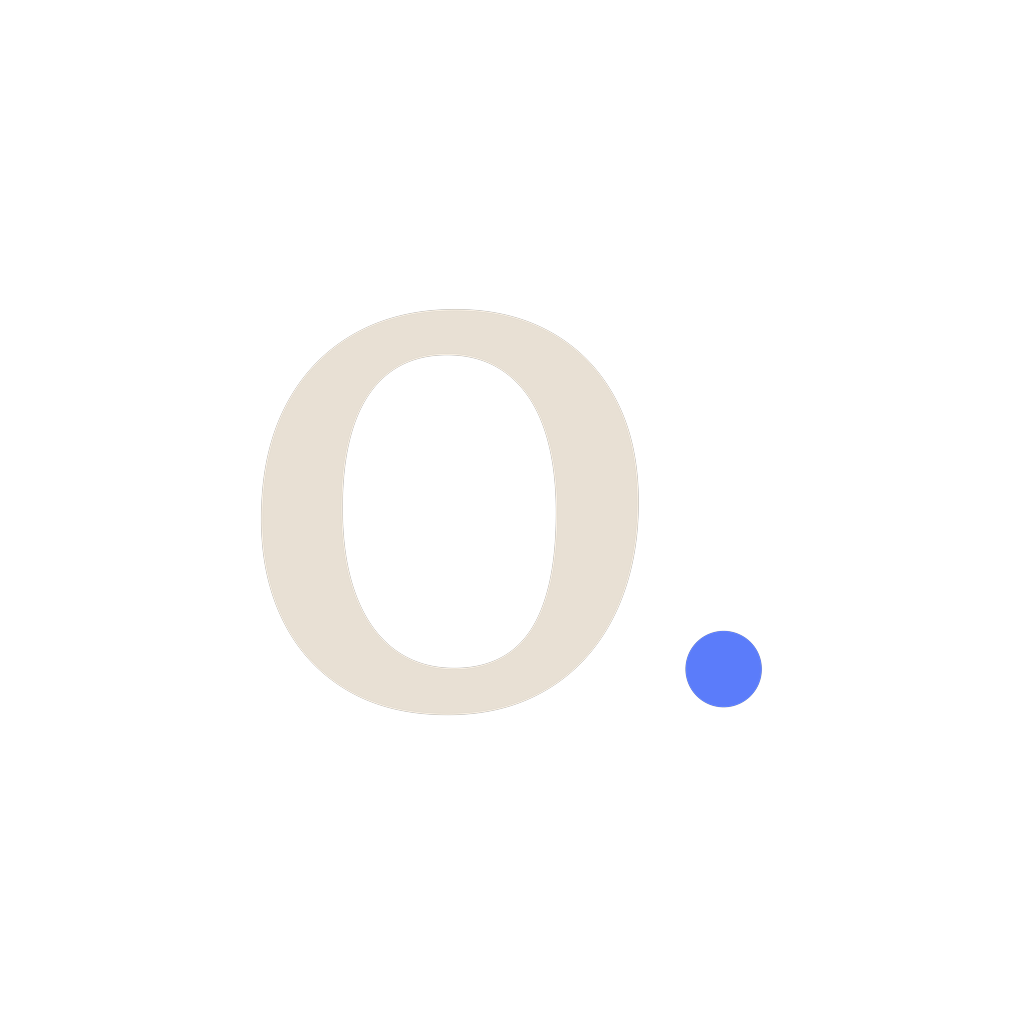
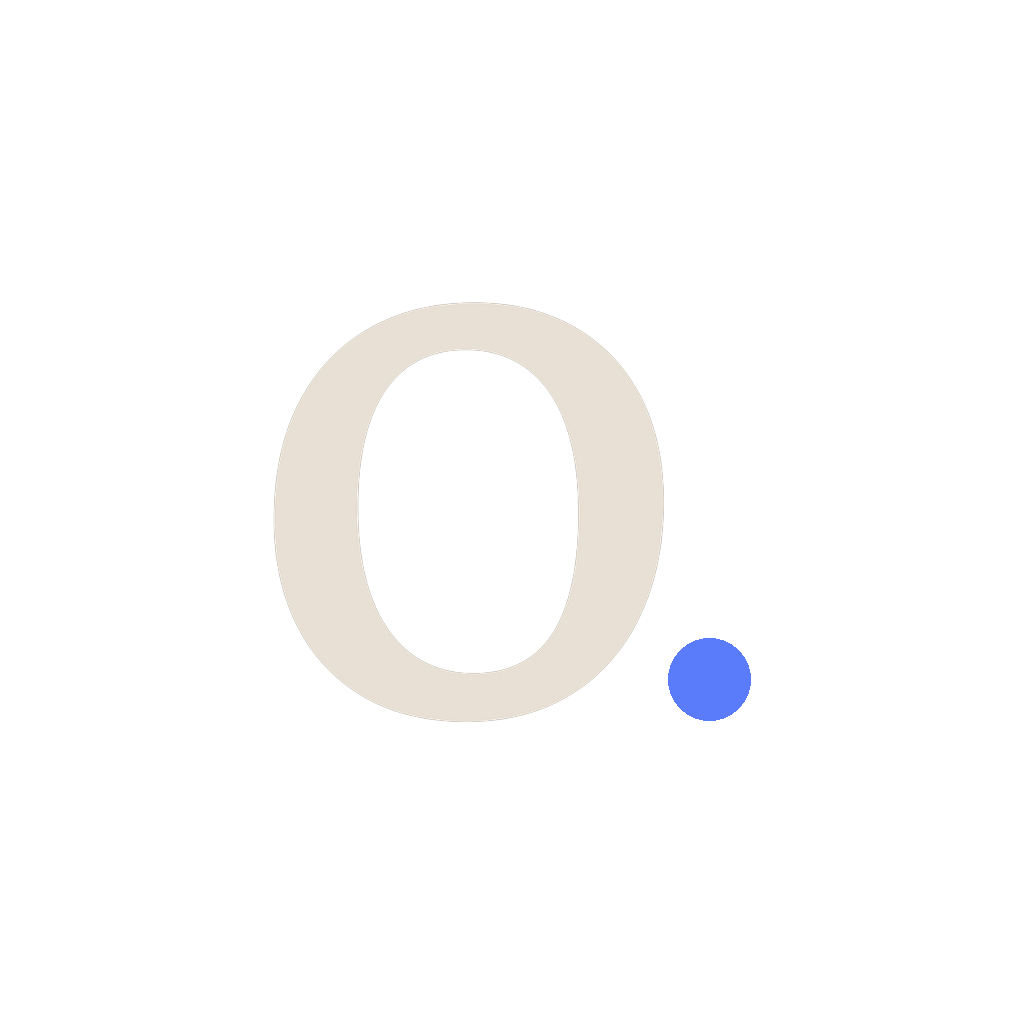
feat: Markenzeichen auf die Endwerte aus Figma, mit einer benannten Abweichung
Uebernommen wie vorgegeben (108-dp-Flaeche): O-Hoehe 44,27 dp ab y 31,87,
Punkt Kreis 8,76 dp, Luecke 0,51 dp, Unterkanten buendig. Gemessen danach:
groesster gesetzter Punkt 31,77 dp bei erlaubten 33.

Eine Vorgabe liess sich nicht uebernehmen: die O-Breite 39,13 dp. Der statische
Literata-SemiBold-Schnitt, den die App ausliefert, rendert das O mit
Seitenverhaeltnis 0,931; Figma nennt 0,884. Auf 44,27 dp Hoehe sind das 41,24
statt 39,13 dp. Die Breite zu erzwingen hiesse, das Glyph um 5 % zu stauchen -
das sieht man einem runden O sofort an, und es waere eine andere Form als die
Wortmarke im Kopf der App, die aus derselben Datei kommt. Vermutlich zeigt
Figma die variable Literata. Wer die Zahl genau will, stellt den Schnitt in
Figma auf den statischen 600er um; dann stimmen Entwurf und Auslieferung
ueberein. Der Punkt rueckt entsprechend 2,11 dp nach rechts, sonst laege er auf
dem O; die Gruppe steht danach wieder mittig.

Probe bei 48 dp mit echter runder Maske (sichtbare 72 von 108 dp, also 32 px
von 48): null Pixel des Punktes ausserhalb, aeusserster Punktpixel 14,92 px bei
Maskenradius 16. Der Punkt wird nicht beschnitten.

Claude-Session: https://claude.ai/code/session_015xsaCdUC8nVer6yhvceciF

diff --git a/docs/HANDOFF.md b/docs/HANDOFF.md
@@ -458,8 +458,8 @@ oder 5xx; fallen beide aus, versucht er es bis zum Fensterende weiter, meldet da
 
 | # | Befund | Schwere | Stand |
 |---|---|---|---|
-| R1 | **Es gibt nur zwei Anbieter, nicht drei.** `Env` kennt `RPC_URL` und `RPC_URL_FALLBACK`; der dritte Rückfall (`api.mainnet-beta.solana.com`), den das Drehbuch und Offen 10 nennen, existiert im Code nicht | mittel | **offen, Entscheidung Owner:** entweder ein dritter Slot (kleine Änderung, aber Codeänderung am Vorabend) oder das Drehbuch auf zwei korrigieren |
-| R2 | **Der stündliche Lauf nutzt den zweiten Anbieter nicht.** `sweep` arbeitet nur mit der primären Verbindung; ist die stundenlang gedrosselt, wird nichts gewertet und nichts geschlossen. Gemeldet wird es (RUN-Ping schlägt fehl), verloren geht nichts — die Arbeit ist aus dem Zustand abgeleitet und holt sich selbst ein | niedrig | **offen** (bewusst so gebaut; Änderung wäre Verhalten, nicht Reparatur) |
+| R1 | **Es gab nur zwei Anbieter, nicht drei** | mittel | **erledigt 22.09.** (`b7b0906`): `RPC_URL_PUBLIC` mit `api.mainnet-beta.solana.com` als Standard — kein Konto nötig, läuft nur, wenn beide bezahlten Anbieter zugleich ausfallen. Drehbuch und Offen 10 stimmen jetzt mit dem Code überein |
+| R2 | **erledigt 22.09.** (`b7b0906`): Der stündliche Lauf nutzt jetzt dieselbe Kette. Vorher: `sweep` arbeitet nur mit der primären Verbindung; ist die stundenlang gedrosselt, wird nichts gewertet und nichts geschlossen. Gemeldet wird es (RUN-Ping schlägt fehl), verloren geht nichts — die Arbeit ist aus dem Zustand abgeleitet und holt sich selbst ein | niedrig | **erledigt** — `providerChain()` gilt für beide Läufe, drei Tests |
 | R3 | **Ein Fehlschlag in einer Zehnergruppe kostet die ganze Gruppe.** Wertet ein zweiter Dienst gleichzeitig, scheitert die Sammel-Transaktion an `AlreadyScored`, und die übrigen neun warten eine Stunde. Nächster Lauf baut die Gruppe ohne den bereits gewerteten Eintrag neu — es heilt sich, kostet aber Zeit | niedrig | offen |
 | R4 | **`withReport` verschluckt deterministische Programmfehler als „skipped".** Ein dauerhaft falscher Aufruf sähe eine Stunde lang aus wie „nichts zu tun"; erst der 12-h-Backlog-Alarm zieht | niedrig | offen |
 | R5 | Der Lese-Lauf prüft den Kontostand **nicht** (nur der stündliche tut das, Boden 0,05 SOL). Eine leere Wallet fällt also frühestens eine Stunde vorher auf | niedrig | akzeptiert, mit Alarm abgedeckt |
@@ -531,39 +531,54 @@ Die Ablehnzeile heißt `Not now` und steht in keinem Dokument. Beides sind zwei 
 andere willst. Die Vorschau selbst (D1) ist weiterhin nicht gebaut, deshalb hängt das Angebot nur
 am ersten Siegel, nicht zusätzlich an ihr.
 
-## Markenzeichen `O.`, 22.09.2026 — endgültig, kein Übergang
+## Markenzeichen `O.` — Endwerte aus Figma, 22.09.2026
 
-Owner-Entscheidung: Das O in **Literata SemiBold** in `#E8E0D4`, der Schlusspunkt als **Kreis** in
-`#5B7CFA`, auf `#1C1F1D`. Gerendert aus der Literata, die ohnehin im Repo liegt — kein neues Paket,
-kein Download.
+Owner-Entscheidung, endgültig. Das O in **Literata SemiBold** in `#E8E0D4`, der Schlusspunkt als
+**Kreis** in `#5B7CFA`, auf `#1C1F1D`. Gerendert aus der Literata, die ohnehin im Repo liegt —
+kein neues Paket.
 
-| Asset | Größe | Inhalt |
+**Gesetzt, wie aus Figma vorgegeben** (108-dp-Fläche):
+
+| Wert | Figma | Gerendert |
 |---|---|---|
-| `icon.png` | 1024 × 1024 | Zeichen auf der Fläche, randvoll |
-| `adaptive-icon.png` | 1024 × 1024 | Vordergrund, transparent |
-| `adaptive-icon-monochrome.png` | 1024 × 1024 | dieselbe Form, eine Farbe (in `app.json` eingetragen) |
-| `splash-icon.png` | 703 × 688 | **eigenes Asset**: Zeichen plus Wortmarke `O B S E R V E D` |
-| `favicon.png` | 48 × 48 | dasselbe Zeichen |
+| O-Höhe | 44,27 dp | **44,27 dp** |
+| O-Oberkante | y 31,87 | **y 31,87** |
+| Punkt ⌀ | 8,76 dp | **8,76 dp** |
+| Lücke O → Punkt | 0,51 dp | **0,51 dp** |
+| Punkt-Unterkante | bündig mit dem O | **bündig** (y 76,14) |
+| **O-Breite** | **39,13 dp** | **41,24 dp — Abweichung 2,11 dp** |
+| Größter gesetzter Punkt | 30,9 dp | **31,77 dp** (Grenze 33,0) |
 
-Der Hintergrund bleibt `backgroundColor: "#1C1F1D"` — eine Farbe, kein Bild; die erzeugte Fläche
-wäre eine ungenutzte Datei gewesen und ist gelöscht. Damit ist auch der Audit-Befund erledigt,
-dass Splash und Adaptive Icon byte-gleich waren.
+**Die eine Abweichung, und warum sie bleibt:** Die Literata SemiBold, die diese App ausliefert
+(`@expo-google-fonts/literata/600SemiBold`, der statische Schnitt), rendert das O mit einem
+Seitenverhältnis von **0,931**. Figma nennt **0,884**. Auf 44,27 dp Höhe sind das 41,24 statt
+39,13 dp. Die Figma-Breite zu erzwingen hieße, das Glyph um 5 % zu stauchen — das sieht man einem
+runden O sofort an, und es wäre außerdem eine andere Form als die Wortmarke im Kopf der App, die
+aus derselben Datei kommt. Wahrscheinlichste Ursache: Figma zeigt die **variable** Literata, deren
+optische Größe das O schmaler macht als der statische Schnitt. **Wenn du die Figma-Breite genau
+willst, ist der richtige Weg der umgekehrte: den Schnitt in Figma auf den statischen 600er
+umstellen und die Werte dort neu nehmen** — dann stimmen Entwurf und Auslieferung überein.
 
-**Gemessen, nicht geschätzt** (108-dp-Fläche): Gruppe **53,0 × 43,0 dp**, größter gesetzter Punkt
-**32,0 dp** von der Mitte bei erlaubten 33,0. Die Entwurfsverhältnisse (O 80 pt, Punkt ⌀ 11 dp,
-Abstand 3 dp, Punktunterkante auf der Grundlinie) sind erhalten und gemeinsam auf **37 %**
-skaliert. Unskaliert hätte die Gruppe eine Diagonale von rund **94 dp** — unter einer runden Maske
-wäre rechts und unten etwas abgeschnitten worden. Die Feinwerte kommen aus Figma; das Skript, das
-die Dateien erzeugt, rechnet die Sicherheitszone jedes Mal neu nach.
+Weil das O breiter ist, rückt der Punkt um dieselben 2,11 dp nach rechts (sonst läge er auf dem
+O), und die Gruppe ist danach wieder mittig gesetzt: O bei x 28,75, Punkt bei x 70,49, Gruppe
+50,51 dp breit. Der äußerste gesetzte Punkt liegt damit bei **31,77 dp** statt 30,9 — beides
+innerhalb der 33.
 
-**Ausrichtung:** Im Repo liegt die Fassung, bei der der **Kasten** der Gruppe mittig sitzt. Zwei
-Alternativen sind gerendert und dem Owner gezeigt (das O mittig, der Punkt hängt über; und der
-Farbschwerpunkt mittig) — die Unterschiede liegen bei zwei bis drei dp.
+**Probe bei 48 dp mit echter runder Maske** (sichtbare 72 von 108 dp, also 32 px von 48):
+**null Pixel des Punktes außerhalb**, der äußerste Punktpixel liegt 14,92 px von der Mitte bei
+einem Maskenradius von 16 px. Der Punkt wird nicht beschnitten.
 
-**Ausnahme, ausdrücklich:** `color.pencil` ist laut `tokens.ts` **nur** für den eigenen Wert, den
-Cursor, den eigenen Balken und den Strich über „pending". Der Punkt des Markenzeichens ist die
-einzige Ausnahme, vom Owner am 22.09.2026 so entschieden. Sie steht jetzt auch im Kommentar in
-`tokens.ts`, damit die Regel nicht später „aufgeweicht" wirkt, ohne dass jemand es beschlossen hat.
+| Asset | Größe |
+|---|---|
+| `icon.png` | 1024 × 1024, Zeichen auf der Fläche |
+| `adaptive-icon.png` | 1024 × 1024, Vordergrund transparent |
+| `adaptive-icon-monochrome.png` | 1024 × 1024, dieselbe Geometrie, eine Farbe |
+| `splash-icon.png` | eigenes Asset: Zeichen plus Wortmarke `O B S E R V E D` |
+| `favicon.png` | 48 × 48 |
+
+**Ausnahme, ausdrücklich:** `color.pencil` gehört laut `tokens.ts` **nur** dem eigenen Wert, dem
+Cursor, dem eigenen Balken und dem Strich über „pending". Der Punkt des Markenzeichens ist die
+einzige Ausnahme, vom Owner am 22.09.2026 entschieden; sie steht im Kommentar in `tokens.ts`.
 
 ## Offen — mit Besitzer
 | # | Was | Wer | Bis |
@@ -577,7 +592,7 @@ einzige Ausnahme, vom Owner am 22.09.2026 so entschieden. Sie steht jetzt auch i
 | 7 | `.spec-unlock` anlegen, wenn 00-SPEC geändert werden muss | Dinkelberg | bei Bedarf |
 | 8 | Offline-Schlüssel + Hot Wallet erzeugen, Cloudflare/Helius/healthchecks einrichten, **Mainnet-Deploy bis Do 24.09.** (SGT gibt es nur auf Mainnet, fremde Tester ab 27.09. brauchen Mainnet) | Dinkelberg | Do 24.09. |
 | 9 | Expo-Token erneuern (stand im Chat). **Pyth-Key wird nicht mehr gebraucht**: Der Resolver liest nur noch das gesponserte Konto, kein Hermes, kein Schlüssel | Dinkelberg | sofort |
-| 10 | Zweiter RPC-Anbieter für die Ablese-Läufe: Konto anlegen, dann `wrangler secret put RPC_URL_FALLBACK`. Vorschlag **QuickNode** (eigenes Netz, eigene Firma, kostenloser Solana-Endpunkt) als Zweiten; **Helius** bleibt der Erste. Dritter Rückfall ohne Konto ist `api.mainnet-beta.solana.com` — gedrosselt, aber besser als nichts | Dinkelberg | vor Do 24.09. |
+| 10 | Zweiter RPC-Anbieter: Konto anlegen, dann `wrangler secret put RPC_URL_FALLBACK`. Vorschlag **QuickNode**; **Helius** bleibt der Erste. **Der dritte ist seit 22.09. im Code** (`RPC_URL_PUBLIC`, Standard `api.mainnet-beta.solana.com`) und braucht kein Konto | Dinkelberg | vor Do 24.09. |
 | 16 | **Erledigt 21.09.:** Backup-Code-Texte freigegeben, in 03-SCREEN-MAP §11.8 und im Code. Begriff durchgehend „backup code“, Warnung gegen das Einfügen der Wallet-Phrase technisch durchgesetzt | Dinkelberg | erledigt |
 | 15 | **Spike 3 am Gerät** mit dem Debug-APK (`C:\\Users\\Admin\\Downloads\\observed-diagnostics-debug.apk`): Wortmarke lang drücken → Diagnose. Drei Knöpfe, Zahlen kopieren, schicken. Davon hängen ab: eine oder zwei Freigaben, und ob `signMessage` deterministisch ist (sonst fällt die Wiederherstellung nach einer Neuinstallation aus) | Dinkelberg | vor dem Build 26.09. |
 | 14 | **Erledigt 21.09.:** alle vier entschieden und in `06b842a` umgesetzt — Zeiten-Sweep, Schwelle 20 Runden, „Too close to call.“ vor „You didn't pick a side.“, versiegelte Antwort wörtlich mit der genauen Zahl | Dinkelberg | erledigt |

diff --git a/docs/runbook-mainnet.md b/docs/runbook-mainnet.md
@@ -11,7 +11,8 @@ Ausweg, falls er scheitert.
 | Hot Wallet des Resolvers | **0,5 SOL** (Verbrauch der ganzen Saison < 0,1 SOL, siehe §5) |
 | Cloudflare | Workers Paid aktiv, Zahlungsmittel gültig bis Ende November |
 | Helius | Mainnet-Endpunkt bereit (`RPC_URL`) |
-| Zweiter Anbieter | QuickNode-Endpunkt bereit (`RPC_URL_FALLBACK`). Die Ablese-Läufe wechseln bei 429 oder Timeout dorthin — eine verpasste Lesung ist der einzige Fehler, der sich nicht nachholen lässt |
+| Zweiter Anbieter | QuickNode-Endpunkt bereit (`RPC_URL_FALLBACK`). **Jeder** Lauf wechselt bei 429 oder Timeout dorthin — eine verpasste Lesung ist der einzige Fehler, der sich nicht nachholen lässt |
+| Dritter Anbieter | **nichts zu tun**: `RPC_URL_PUBLIC` ist seit dem 22.09. im Code und steht ohne Eintrag auf `https://api.mainnet-beta.solana.com`. Er läuft nur, wenn die ersten beiden gleichzeitig unbrauchbar sind |
 | healthchecks.io | zwei Checks (RUN, BACKLOG), Telegram verbunden, einmal mit `/fail` getestet |
 | `KICK_TOKEN` | lange Zufallszeichenkette ausgedacht und notiert (für den Hand-Anstoß; ohne sie ist der HTTP-Weg zu) |
 | Repo | `docs/generated/CALENDAR-season1.md` gelesen — das sind die 64 Fragen der Saison |
@@ -113,6 +114,7 @@ cd ~/observed-resolver
 wrangler secret put HOT_WALLET_KEY        # base58, nur Gebührenzahler
 wrangler secret put RPC_URL               # Helius mainnet
 wrangler secret put RPC_URL_FALLBACK      # QuickNode, anderer Anbieter, anderes Netz
+# RPC_URL_PUBLIC ist optional: ohne Eintrag nimmt der Worker api.mainnet-beta.solana.com
 wrangler secret put HEALTHCHECK_RUN_URL
 wrangler secret put HEALTHCHECK_BACKLOG_URL
 wrangler secret put KICK_TOKEN            # frei wählbar, lang, nur für dich
@@ -147,8 +149,8 @@ Nach der Einreichung ist der Stand im Hauptrepo eingefroren. Erlaubt und ohne Co
 | Fall | Was du tust |
 |---|---|
 | Hot Wallet wird leer (BACKLOG-Alarm) | SOL überweisen. Sonst nichts. |
-| RPC zickt (429, Timeouts) | Erst einmal **nichts**: Die Ablese-Läufe wechseln von selbst auf `RPC_URL_FALLBACK` und sagen es im Log. Bleibt es dabei, `wrangler secret put RPC_URL` mit einem anderen Anbieter, dann `npm run deploy` **des unveränderten Stands** — das ist keine Codeänderung |
-| Beide Anbieter zicken | Dritter Endpunkt als `RPC_URL_FALLBACK` (`https://api.mainnet-beta.solana.com`, gedrosselt, aber besser als nichts), erneut deployen |
+| RPC zickt (429, Timeouts) | Erst einmal **nichts**: Jeder Lauf wechselt von selbst auf `RPC_URL_FALLBACK` und sagt es im Log. Bleibt es dabei, `wrangler secret put RPC_URL` mit einem anderen Anbieter, dann `npm run deploy` **des unveränderten Stands** — das ist keine Codeänderung |
+| Beide Anbieter zicken | **Nichts tun** — der dritte Endpunkt ist eingebaut und springt von selbst ein (`RPC_URL_PUBLIC`, Standard `https://api.mainnet-beta.solana.com`, gedrosselt, aber besser als nichts). Im Log steht: switched to the public provider |
 | Pyth-Schlüssel | entfällt, der Resolver hat keinen |
 | Worker hängt | `npm run deploy` erneut (gleicher Code) oder im Dashboard „Redeploy" |
 | Ein Lauf ist ausgefallen | nichts tun. Der nächste Kehrlauf holt Scoring und `cancel_round` nach. Eine **Lesung** ist nicht nachholbar: Die Runde wird NO_RESOLVE, das ist ein vorgesehener Zustand |

diff --git a/docs/figma-brief.md b/docs/figma-brief.md
@@ -445,11 +445,12 @@ endgültig. Gerendert aus der Literata, die ohnehin im Repo liegt (kein neues Pa
 | `splash-icon.png` | 703 × 688 | **eigenes Asset**: `O.` plus Wortmarke `O B S E R V E D` |
 | `favicon.png` | 48 × 48 | dasselbe Zeichen |
 
-Gemessene Geometrie auf der 108-dp-Fläche: Gruppe **53,0 × 43,0 dp**, größter gesetzter Punkt
-**32,0 dp** von der Mitte — die Sicherheitszone erlaubt 33,0. Entwurfsverhältnisse des Owners (O
-80 pt, Punkt ⌀ 11 dp, Abstand 3 dp) sind erhalten und gemeinsam auf **37 %** skaliert; unskaliert
-hätte die Gruppe eine Diagonale von etwa 94 dp und wäre unter einer runden Maske beschnitten
-worden. Die Feinwerte kommen aus Figma.
+Endwerte aus Figma (108-dp-Fläche): O-Höhe **44,27 dp** ab y 31,87, Punkt **⌀ 8,76 dp**, Lücke
+**0,51 dp**, Unterkanten bündig, Gruppe **50,51 dp** breit, größter gesetzter Punkt **31,77 dp**
+von der Mitte (Grenze 33,0). **Eine Abweichung:** Figma nennt die O-Breite 39,13 dp, der statische
+Literata-Schnitt der App rendert 41,24 dp (Seitenverhältnis 0,931 statt 0,884) — vermutlich zeigt
+Figma die variable Literata. Gestaucht wird nicht; wer die Figma-Breite genau will, stellt den
+Schnitt in Figma auf den statischen 600er um.
 
 ### 5.2 Farbe hart verdrahtet
 
